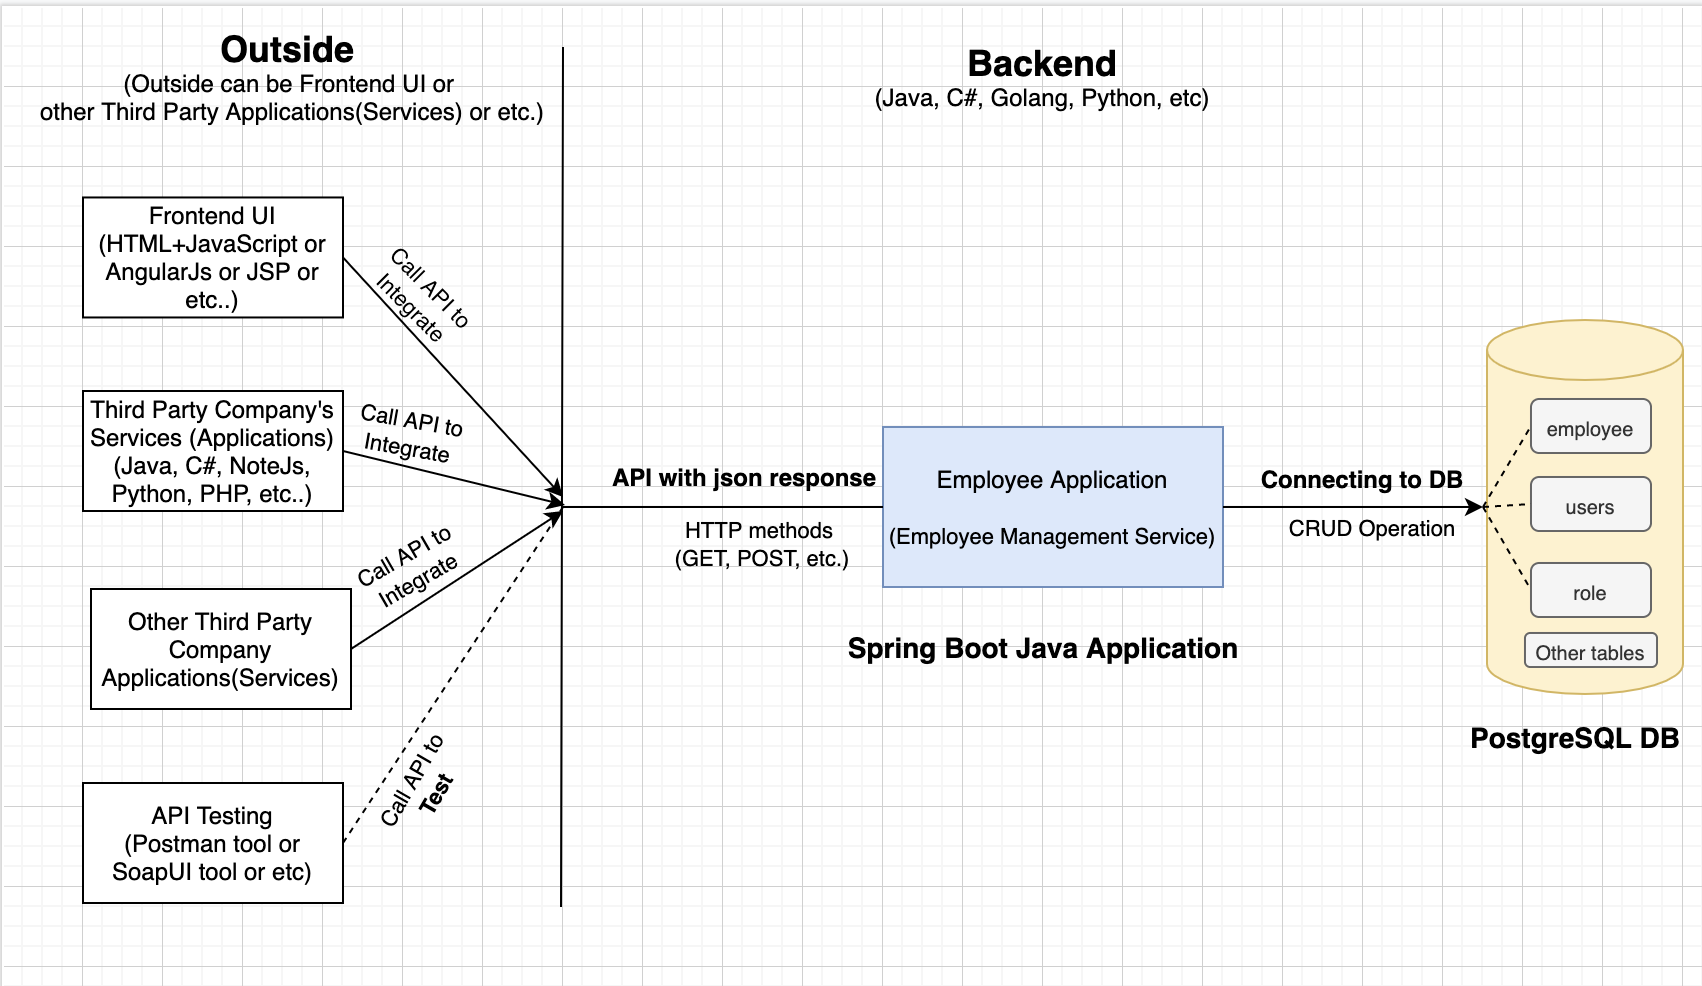
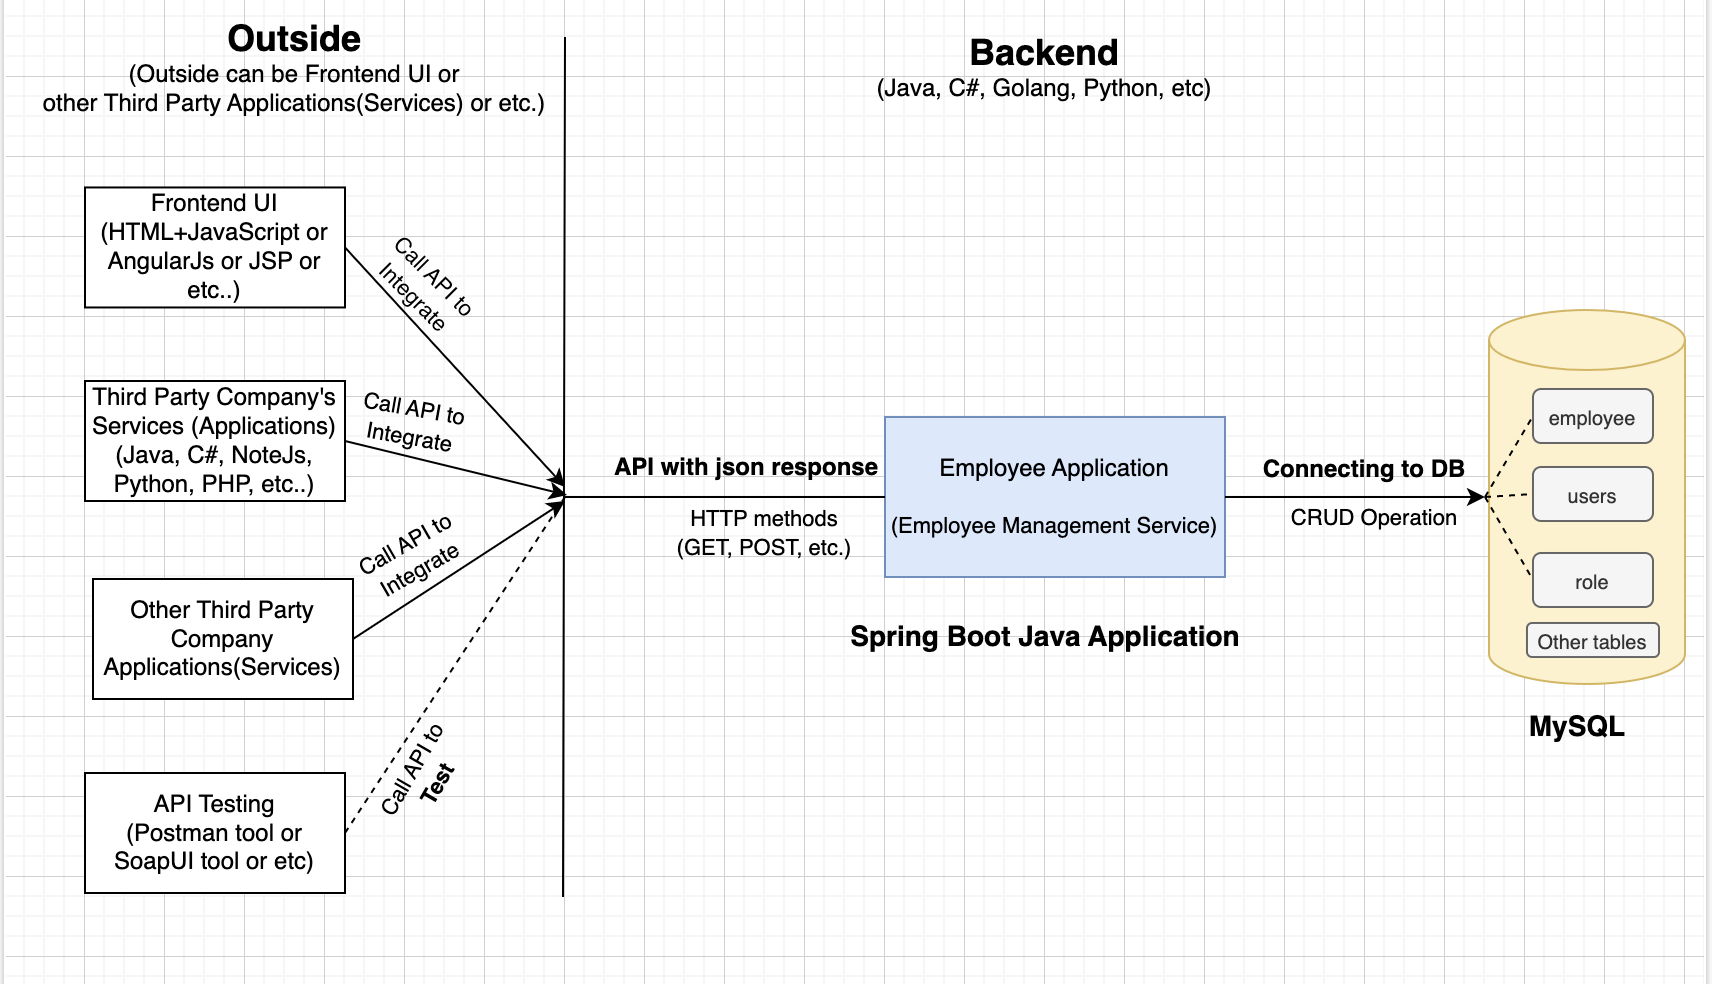
update read me

diff --git a/README.md b/README.md
@@ -32,7 +32,7 @@
 </h1>
 
 # employee-sample-crud-system
-* This is the sample backend microservice project for Employee Management System by using spring boot and spring data jpa.
+* This is the sample backend microservice project for Employee Management System by using Spring boot + Spring data jpa + MySQL. 
 
 <!-- TABLE OF CONTENTS -->
 ## Table of Contents
@@ -177,6 +177,3 @@ Contributions are what make the open source community such an amazing place to b
 3. Commit your Changes (`git commit -m 'Add some AmazingFeature'`)
 4. Push to the Branch (`git push -u origin feature/yourname`)
 5. Open a Pull Request
-
-
-
